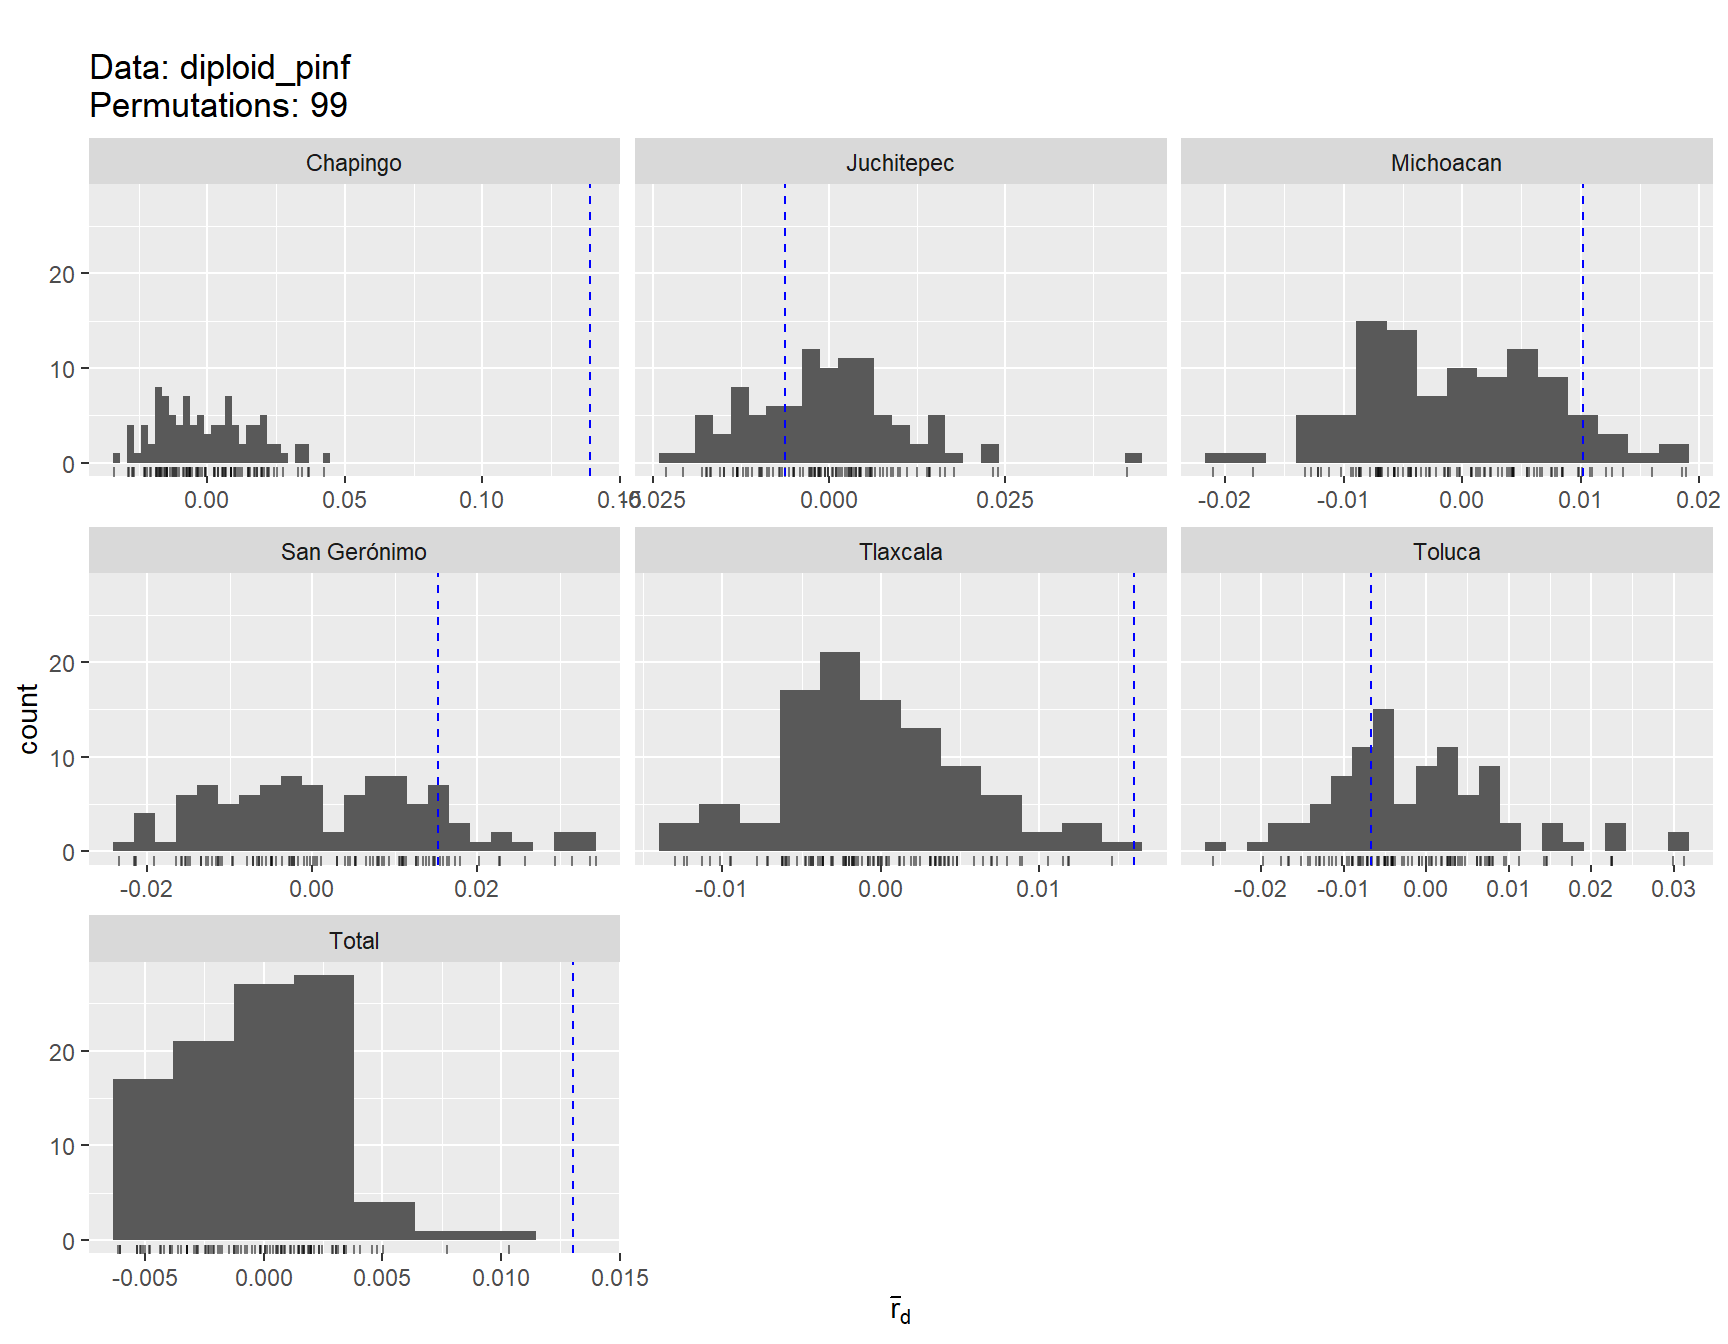
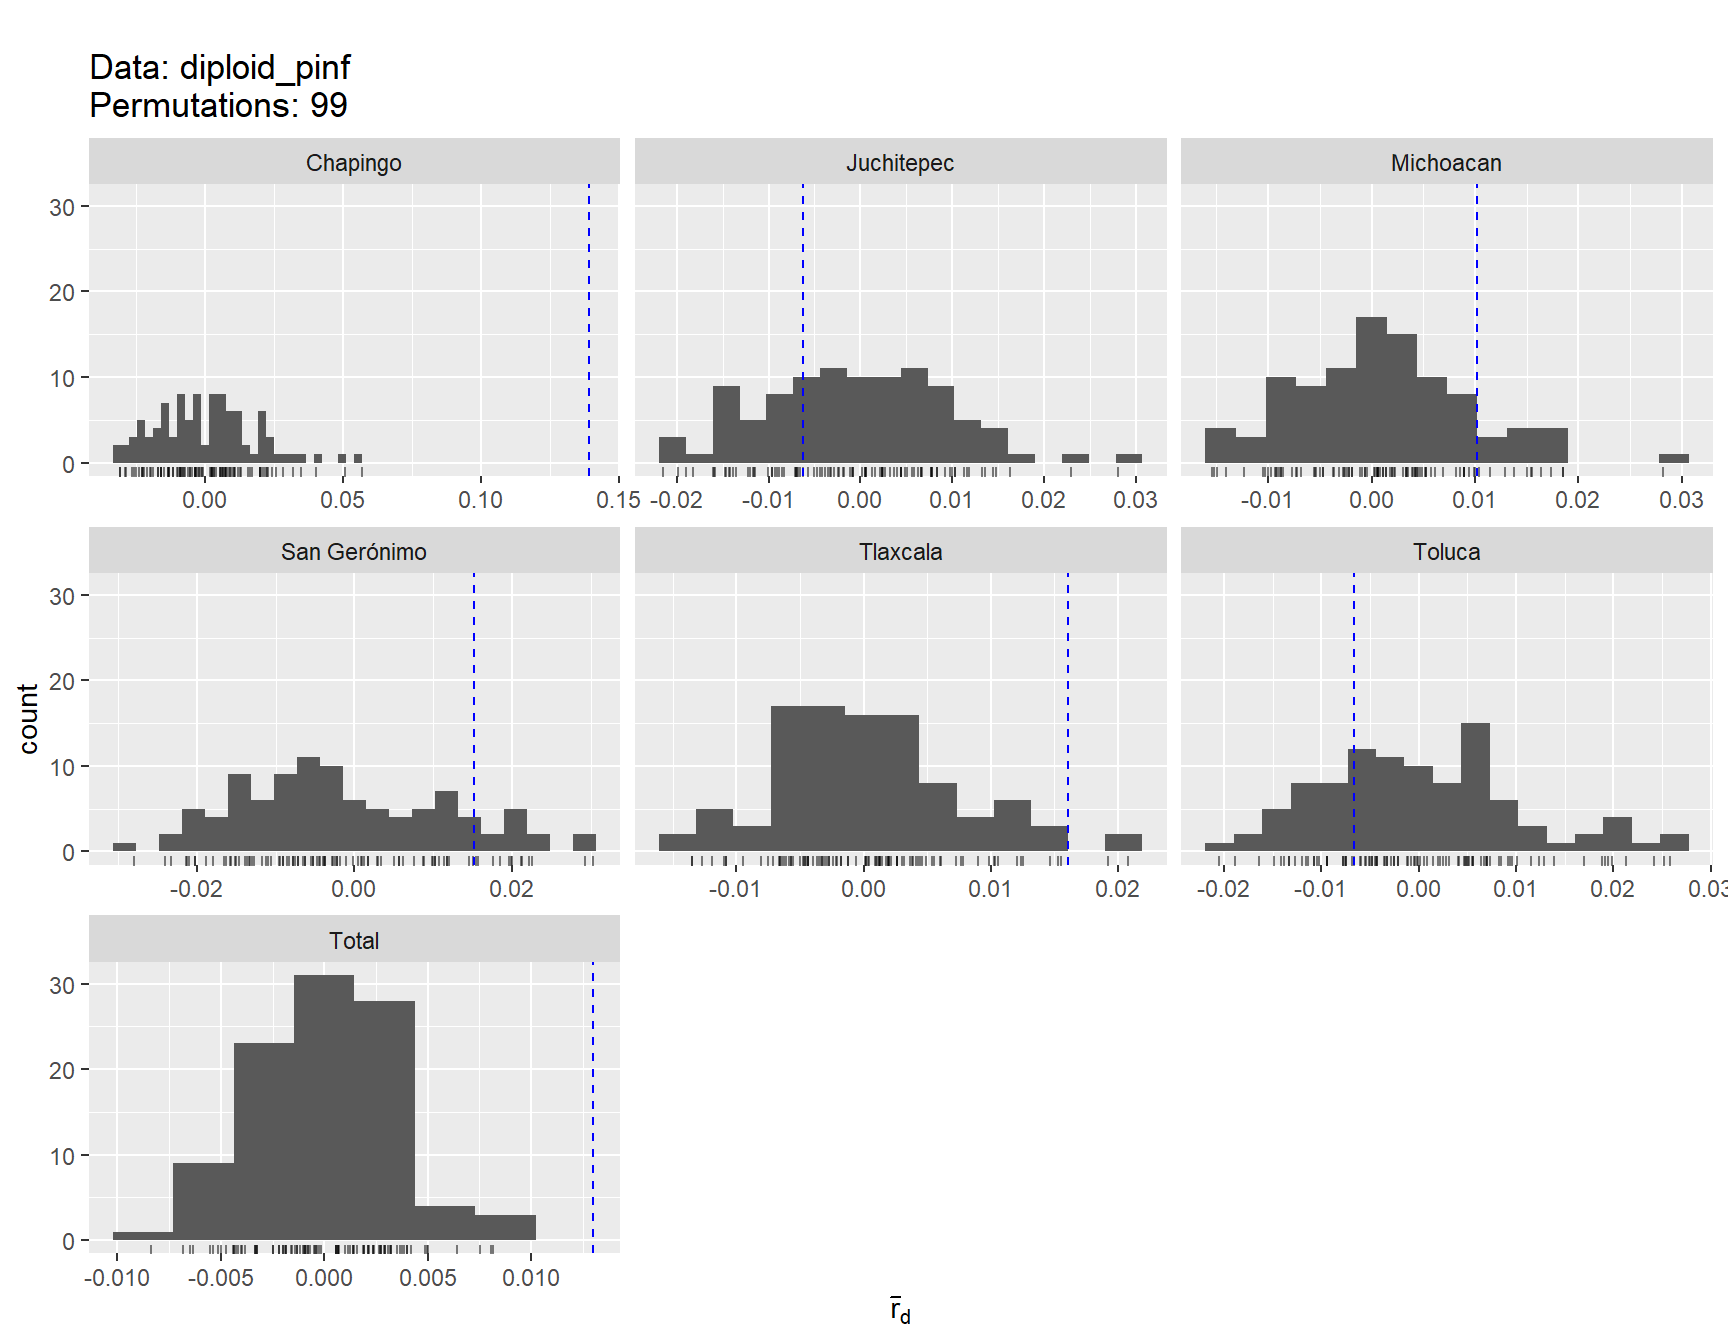
participants

diff --git a/ssr.html b/ssr.html
@@ -531,9 +531,9 @@ ia_Pinf</code></pre>
 ## 1     Chapingo  17  17  0.13903    0.01
 ## 2   Juchitepec  28  28 -0.00623    0.68
 ## 3 San Gerónimo  22  22  0.01519    0.14
-## 4       Toluca  38  38 -0.00664    0.63
-## 5     Tlaxcala  76  76  0.01604    0.01
-## 6    Michoacan  43  43  0.01019    0.15
+## 4       Toluca  38  38 -0.00664    0.74
+## 5     Tlaxcala  76  76  0.01604    0.03
+## 6    Michoacan  43  43  0.01019    0.13
 ## 7        Total 224 221  0.01302    0.01</code></pre>
 </div>
 <div id="hardy_weiberg-equilibrium" class="section level2">
@@ -557,12 +557,12 @@ colnames(ia_Pinf)[6] &lt;- &quot;Loci under HWE&quot;
 
 ia_Pinf</code></pre>
 <pre><code>##         Region  N MLG        rbarD P-value Loci under HWE
-## 1    Michoacan 43  43  0.010185614    0.15              5
+## 1    Michoacan 43  43  0.010185614    0.13              5
 ## 2     Chapingo 17  17  0.139028170    0.01              6
-## 3       Toluca 38  38 -0.006641278    0.63              7
+## 3       Toluca 38  38 -0.006641278    0.74              7
 ## 4 San Gerónimo 22  22  0.015188555    0.14              9
 ## 5   Juchitepec 28  28 -0.006226974    0.68             11
-## 6     Tlaxcala 76  76  0.016042513    0.01              7</code></pre>
+## 6     Tlaxcala 76  76  0.016042513    0.03              7</code></pre>
 </div>
 <div id="table-4.-pairwise-fst" class="section level2">
 <h2>Table 4. Pairwise FST</h2>
@@ -590,23 +590,23 @@ diploid_pinf_cc.g &lt;- gen2gtype(diploid_pinf_cc)
 
 pairwise_fst &lt;- pairwiseTest(diploid_pinf_cc.g, stats = &quot;fst&quot;, nrep = 100)</code></pre>
 <pre><code>## 
-## &lt;&lt;&lt; gtypes created on 2019-08-25 22:44:58 &gt;&gt;&gt;
-##  2019-08-25 22:44:59 : Pairwise tests : 100 permutations
-##    2019-08-25 22:44:59 : Chapingo v. Juchitepec 
-##    2019-08-25 22:44:59 : Chapingo v. Michoacan 
-##    2019-08-25 22:45:00 : Chapingo v. San Gerónimo 
-##    2019-08-25 22:45:00 : Chapingo v. Tlaxcala 
-##    2019-08-25 22:45:01 : Chapingo v. Toluca 
-##    2019-08-25 22:45:01 : Juchitepec v. Michoacan 
-##    2019-08-25 22:45:01 : Juchitepec v. San Gerónimo 
-##    2019-08-25 22:45:02 : Juchitepec v. Tlaxcala 
-##    2019-08-25 22:45:02 : Juchitepec v. Toluca 
-##    2019-08-25 22:45:03 : Michoacan v. San Gerónimo 
-##    2019-08-25 22:45:03 : Michoacan v. Tlaxcala 
-##    2019-08-25 22:45:04 : Michoacan v. Toluca 
-##    2019-08-25 22:45:04 : San Gerónimo v. Tlaxcala 
-##    2019-08-25 22:45:05 : San Gerónimo v. Toluca 
-##    2019-08-25 22:45:05 : Tlaxcala v. Toluca 
+## &lt;&lt;&lt; gtypes created on 2019-08-25 23:05:39 &gt;&gt;&gt;
+##  2019-08-25 23:05:40 : Pairwise tests : 100 permutations
+##    2019-08-25 23:05:40 : Chapingo v. Juchitepec 
+##    2019-08-25 23:05:40 : Chapingo v. Michoacan 
+##    2019-08-25 23:05:41 : Chapingo v. San Gerónimo 
+##    2019-08-25 23:05:41 : Chapingo v. Tlaxcala 
+##    2019-08-25 23:05:41 : Chapingo v. Toluca 
+##    2019-08-25 23:05:42 : Juchitepec v. Michoacan 
+##    2019-08-25 23:05:42 : Juchitepec v. San Gerónimo 
+##    2019-08-25 23:05:43 : Juchitepec v. Tlaxcala 
+##    2019-08-25 23:05:43 : Juchitepec v. Toluca 
+##    2019-08-25 23:05:44 : Michoacan v. San Gerónimo 
+##    2019-08-25 23:05:44 : Michoacan v. Tlaxcala 
+##    2019-08-25 23:05:45 : Michoacan v. Toluca 
+##    2019-08-25 23:05:46 : San Gerónimo v. Tlaxcala 
+##    2019-08-25 23:05:46 : San Gerónimo v. Toluca 
+##    2019-08-25 23:05:47 : Tlaxcala v. Toluca 
 ## 
 ## Population structure results:
 ##                              pair.label        Fst  Fst.p.val
@@ -622,7 +622,7 @@ pairwise_fst &lt;- pairwiseTest(diploid_pinf_cc.g, stats = &quot;fst&quot;, nrep
 ## 10  Michoacan (43) v. San Gerónimo (22) 0.11561847 0.00990099
 ## 11      Michoacan (43) v. Tlaxcala (76) 0.10420317 0.00990099
 ## 12        Michoacan (43) v. Toluca (38) 0.10782517 0.00990099
-## 13   San Gerónimo (22) v. Tlaxcala (76) 0.01159181 0.02970297
+## 13   San Gerónimo (22) v. Tlaxcala (76) 0.01159181 0.01980198
 ## 14     San Gerónimo (22) v. Toluca (38) 0.07121965 0.00990099
 ## 15         Tlaxcala (76) v. Toluca (38) 0.06161425 0.00990099</code></pre>
 <pre class="r"><code>fst_mat &lt;- pairwise_fst$pair.mat$Fst
@@ -715,11 +715,11 @@ mycol[grep(&quot;Tlaxcala&quot;, tree_nj$tip.label)] &lt;- &quot;orange&quot;
 mycol[grep(&quot;Michoacan&quot;, tree_nj$tip.label)] &lt;- &quot;pink&quot;
 
 
-plot.phylo(tree_nj, tip.color = mycol, font = 2)</code></pre>
-<p><img src="ssr_files/figure-html/unnamed-chunk-11-3.png" width="864" style="display: block; margin: auto;" /></p>
-<pre class="r"><code>#tiff(&quot;./mytree.tiff&quot;, width = 9, height = 18, res = 300, compression = &quot;zip&quot;, unit = &quot;in&quot;)
+
+
+#tiff(&quot;./mytree.tiff&quot;, width = 9, height = 18, res = 300, compression = &quot;zip&quot;, unit = &quot;in&quot;)
 plot(tree_nj, tip.color = mycol, edge.width = 1, font = 1, main = &quot;NJ tree.&quot;)</code></pre>
-<p><img src="ssr_files/figure-html/unnamed-chunk-11-4.png" width="864" style="display: block; margin: auto;" /></p>
+<p><img src="ssr_files/figure-html/unnamed-chunk-11-3.png" width="864" style="display: block; margin: auto;" /></p>
 <pre class="r"><code>#dev.off()</code></pre>
 </div>
 <div id="structure-analysis" class="section level2">
